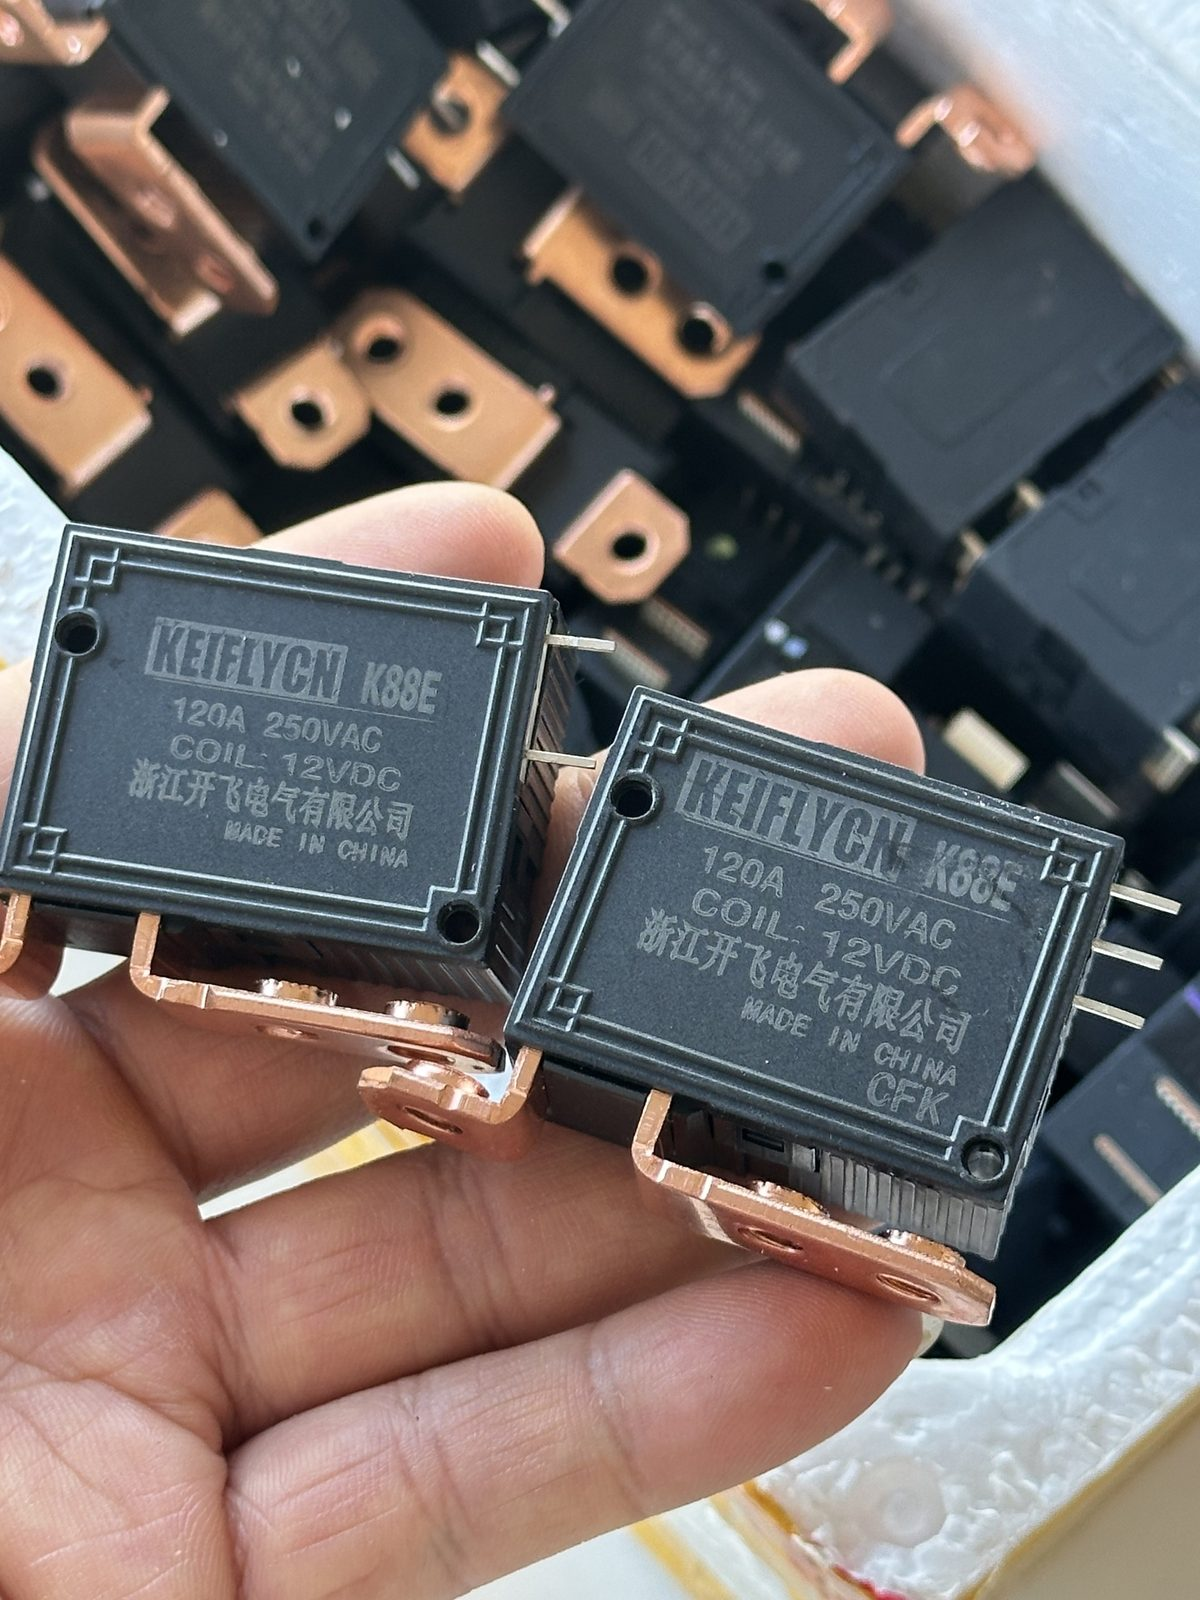
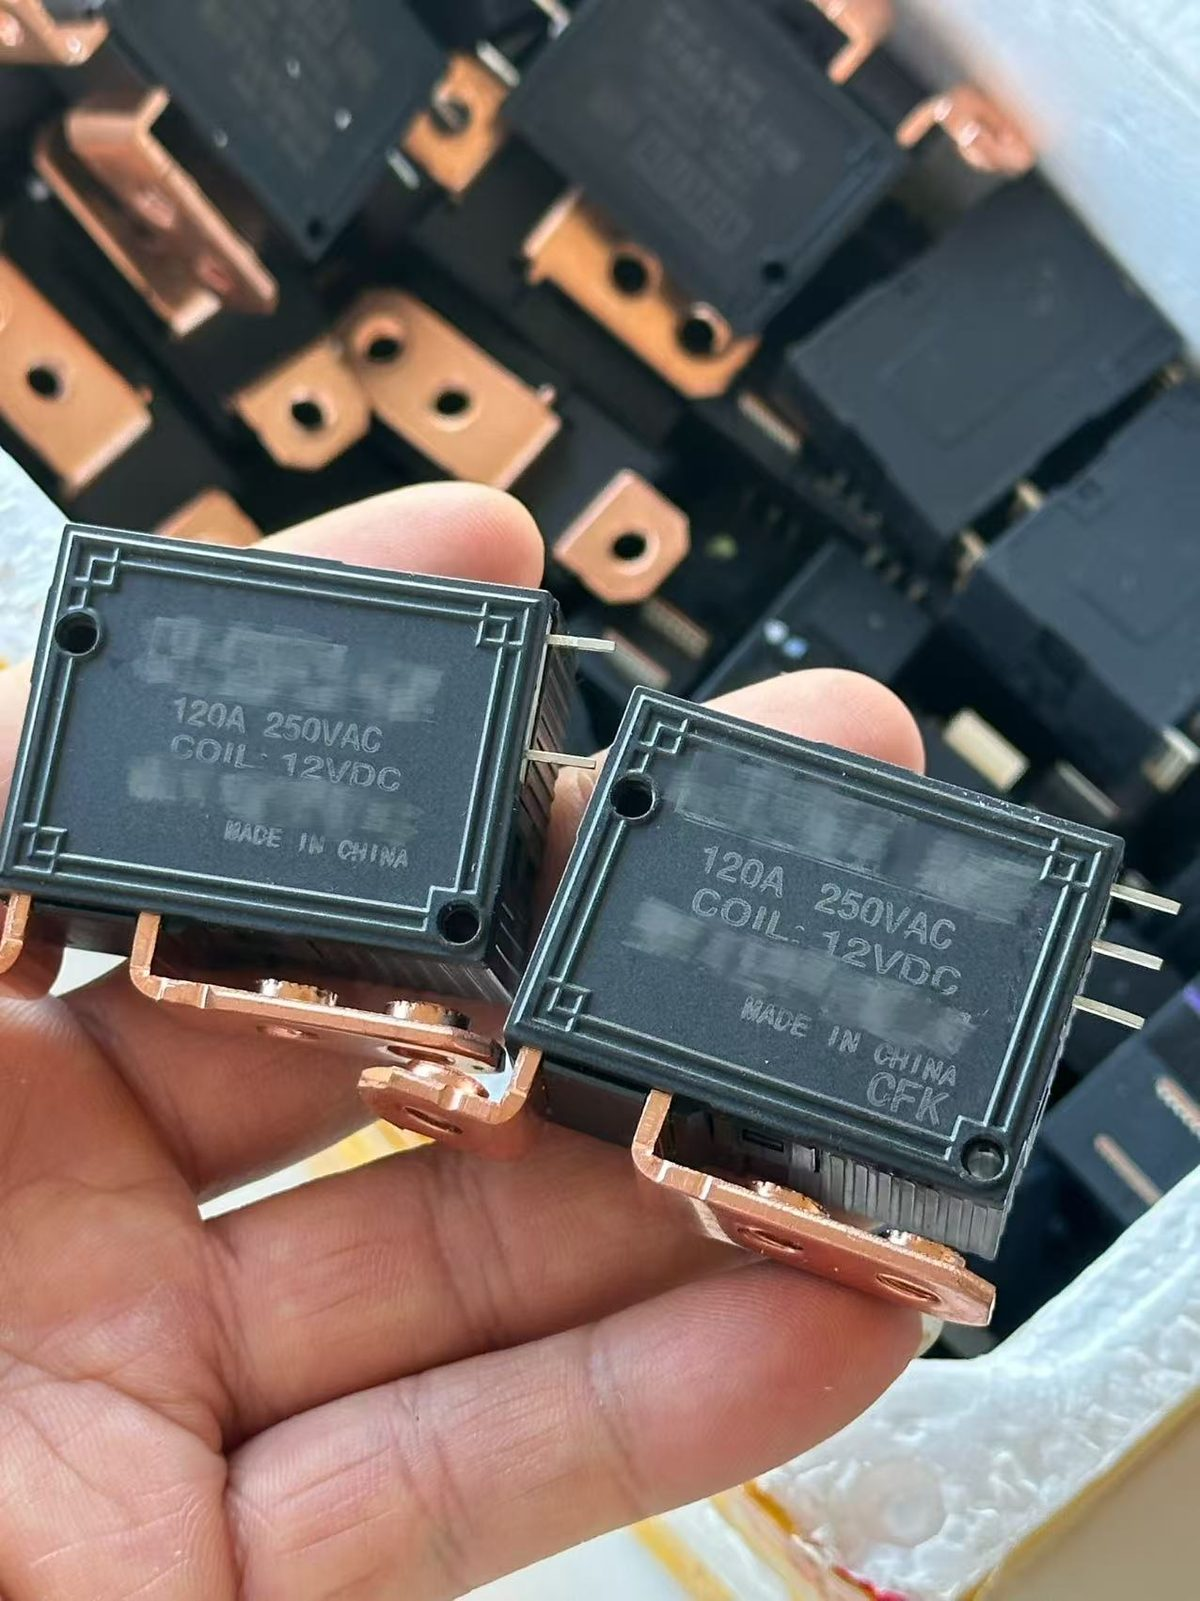
fix(relay): use redacted photos and drop brand from copy
The previous photos exposed the manufacturer's brand and Chinese
company name. Swap in the redacted set (brand and Chinese blurred,
120A / 250VAC / 12VDC still legible) and remove the brand and model
from the heading, spec table, alt text and JSON-LD.

Also correct 'unbranded' to 'generic Chinese-made unit', which is
accurate without advertising the brand, and add the 43x33x22mm
dimensions now visible in the dimensioned photo.

diff --git a/index.html b/index.html
@@ -116,22 +116,24 @@
   <!-- 2 -->
   <article id="latching-relay">
     <h2>Magnetic Latching Relay 120A 12V — Bistable, Holds With Zero Coil Power</h2>
-    <p class="sub">KEIFLYCN K88E · copper busbar M6 terminals · 30 in stock</p>
+    <p class="sub">120A 250VAC · copper busbar M6 terminals · 43 × 33 × 22mm · 30 in stock</p>
     <p class="price">A$25 <small>Bulk pricing available on ten or more</small></p>
     <div class="shots">
-      <img src="img/relay-label.jpg" alt="Nameplate on the KEIFLYCN K88E relay showing 120A 250VAC and COIL 12VDC" loading="lazy">
-      <img src="img/relay-terminals.jpg" alt="Copper busbar main terminals with M6 threaded holes" loading="lazy">
-      <img src="img/relay-pair.jpg" alt="Two relays side by side, both marked COIL 12VDC" loading="lazy">
+      <img src="img/relay-plate.jpg" alt="Front housing of the 120A latching relay showing 120A 250VAC and COIL 12VDC" loading="lazy">
+      <img src="img/relay-pair.jpg" alt="Two 120A latching relays side by side, both marked COIL 12VDC" loading="lazy">
+      <img src="img/relay-single.jpg" alt="Single 120A latching relay held in hand with copper busbar terminals and coil pins" loading="lazy">
+      <img src="img/relay-dims.jpg" alt="Dimensioned drawing of the relay: 43mm long, 33.2mm wide, 22mm tall, 41mm terminal spacing, M6 holes at 11.4mm pitch" loading="lazy">
     </div>
     <p class="body">A real latching relay: it closes on a pulse, opens on a pulse, and then holds that state with the coil completely dead. That is the whole point. An ordinary relay has to keep its coil energised to stay closed — around 2 to 5 watts, running the whole time, which over a month pulls roughly 150Ah out of a 12V battery. Use an ordinary relay to stop something draining your battery and the relay itself becomes the drain. This one draws nothing to hold.</p>
     <p class="body">Built for 4WD dual-battery setups and boats. Cut the link to the start battery when you park up, so the fridge, dash cam, UHF and chargers cannot flatten it — and the isolator adds no drain of its own. On a boat it holds through a mooring without drawing current, and the contacts are held by a permanent magnet rather than spring tension, so engine vibration does not make them chatter.</p>
     <dl class="spec">
       <dt>Contact rating</dt><dd>120A 250VAC</dd>
       <dt>Coil</dt><dd>12VDC · latching (bistable) · thin pin leads</dd>
-      <dt>Main terminals</dt><dd>Two copper busbars with M6 threaded holes</dd>
+      <dt>Main terminals</dt><dd>Two copper busbars with M6 threaded holes, 11.4mm pitch</dd>
+      <dt>Size</dt><dd>43 × 33.2 × 22mm · terminal spacing 41mm</dd>
       <dt>Condition</dt><dd>New, bulk stock</dd>
     </dl>
-    <div class="note">Straight up: unbranded, no IEC/UL/CE/RCM marking on the case, and no stated contact material. Not recommended for a starter motor circuit. Comes in single-coil and double-coil versions — message before wiring.</div>
+    <div class="note">Straight up: a generic Chinese-made unit — no IEC, UL, CE or RCM certification marking on the case, and no stated contact material. Not recommended for a starter motor circuit. It comes in single-coil and double-coil versions and the wiring is different, so message before you wire it.</div>
     <div class="links">
       <span class="pending">eBay — link coming</span>
       <span class="pending">Gumtree — link coming</span>
@@ -294,9 +296,9 @@
       "@type": "ListItem", "position": 2,
       "item": {
         "@type": "Product",
-        "name": "KEIFLYCN K88E 120A 12V magnetic latching relay",
-        "description": "Bistable magnetic latching relay, 120A 250VAC, 12VDC coil, copper busbar M6 terminals. Holds state with zero coil current. For 4WD dual battery and marine use.",
-        "image": "https://ccd-git.github.io/sydney-clearance/img/relay-label.jpg",
+        "name": "120A 12V magnetic latching relay, bistable",
+        "description": "Bistable magnetic latching relay, 120A 250VAC, 12VDC coil, copper busbar M6 terminals, 43x33x22mm. Holds state with zero coil current. For 4WD dual battery and marine use.",
+        "image": "https://ccd-git.github.io/sydney-clearance/img/relay-plate.jpg",
         "itemCondition": "https://schema.org/NewCondition",
         "offers": {"@type":"Offer","price":"25","priceCurrency":"AUD","availability":"https://schema.org/InStock","businessFunction":"http://purl.org/goodrelations/v1#Sell"}
       }
